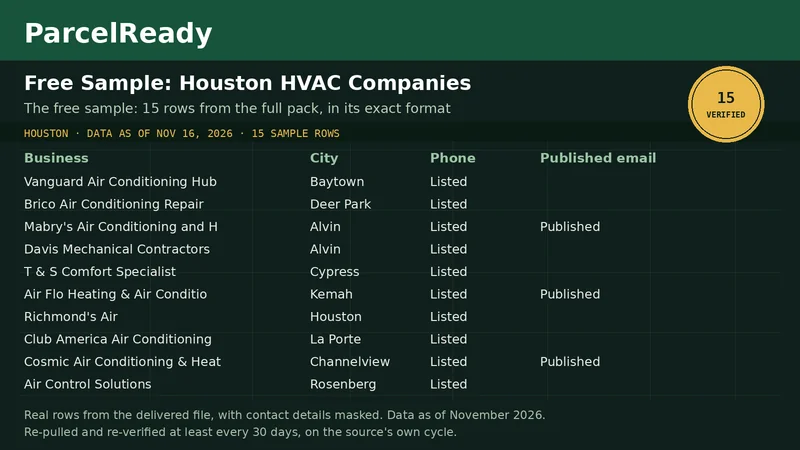
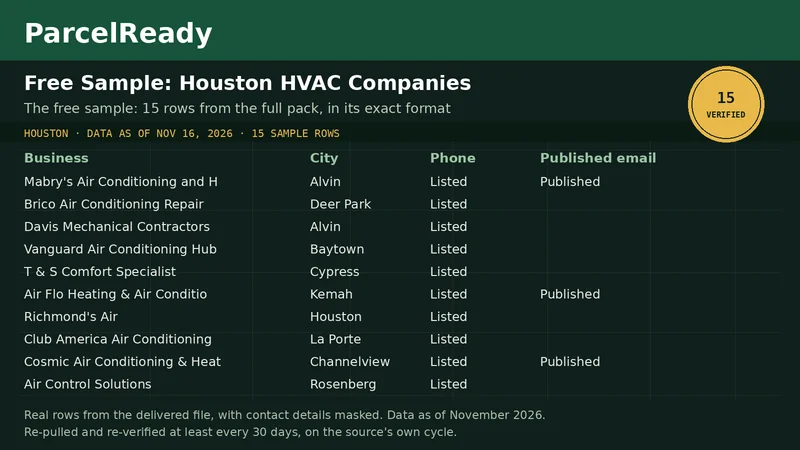
A4 composition rule (Relay): the preview window pass now also enforces that the first row is never blank on email, rating, and review count at once and no two consecutive window rows are all-blank; ordering only, draw rates and membership unchanged, all-blank rows remain in the window at near their 

diff --git a/packs/houston-hvac.html b/packs/houston-hvac.html
@@ -50,7 +50,7 @@
       
       <div class="mini-preview">
         <p class="mini-head"><span>Live preview · first 5 rows</span><span>15 preview rows in all</span></p>
-        <table><thead><tr><th>Business name</th><th>City</th><th>Phone</th><th>Published email</th></tr></thead><tbody><tr><td>Vanguard Air Conditioning Hub</td><td>Baytown</td><td>Listed</td><td></td></tr><tr><td>Brico Air Conditioning Repair Services</td><td>Deer Park</td><td>Listed</td><td></td></tr><tr><td>Mabry&#x27;s Air Conditioning and Heating</td><td>Alvin</td><td>Listed</td><td>Published</td></tr><tr><td>Davis Mechanical Contractors</td><td>Alvin</td><td>Listed</td><td></td></tr><tr><td>T &amp; S Comfort Specialist</td><td>Cypress</td><td>Listed</td><td></td></tr></tbody></table>
+        <table><thead><tr><th>Business name</th><th>City</th><th>Phone</th><th>Published email</th></tr></thead><tbody><tr><td>Mabry&#x27;s Air Conditioning and Heating</td><td>Alvin</td><td>Listed</td><td>Published</td></tr><tr><td>Brico Air Conditioning Repair Services</td><td>Deer Park</td><td>Listed</td><td></td></tr><tr><td>Davis Mechanical Contractors</td><td>Alvin</td><td>Listed</td><td></td></tr><tr><td>Vanguard Air Conditioning Hub</td><td>Baytown</td><td>Listed</td><td></td></tr><tr><td>T &amp; S Comfort Specialist</td><td>Cypress</td><td>Listed</td><td></td></tr></tbody></table>
         <p class="mini-foot">Real rows from this pack, contact details masked on screen. <a href="#sample">See the full preview below</a>; the delivered sample carries every field.</p>
       </div>
     </div>

diff --git a/packs/austin-sa-roofing.html b/packs/austin-sa-roofing.html
@@ -50,7 +50,7 @@
       
       <div class="mini-preview">
         <p class="mini-head"><span>Live preview · first 5 rows</span><span>15 preview rows in all</span></p>
-        <table><thead><tr><th>Business name</th><th>City</th><th>Phone</th><th>Published email</th></tr></thead><tbody><tr><td>Texas Choice Roofing</td><td>Austin</td><td>Listed</td><td></td></tr><tr><td>Altitude Roofing</td><td>Austin</td><td>Listed</td><td>Published</td></tr><tr><td>SkyDeck Roofing and Construction</td><td>Austin</td><td>Listed</td><td></td></tr><tr><td>Ace Roofing Company</td><td>Austin</td><td>Listed</td><td>Published</td></tr><tr><td>Anderson Roofing &amp; Construction</td><td>Leander</td><td>Listed</td><td>Published</td></tr></tbody></table>
+        <table><thead><tr><th>Business name</th><th>City</th><th>Phone</th><th>Published email</th></tr></thead><tbody><tr><td>Altitude Roofing</td><td>Austin</td><td>Listed</td><td>Published</td></tr><tr><td>Texas Choice Roofing</td><td>Austin</td><td>Listed</td><td></td></tr><tr><td>Ace Roofing Company</td><td>Austin</td><td>Listed</td><td>Published</td></tr><tr><td>SkyDeck Roofing and Construction</td><td>Austin</td><td>Listed</td><td></td></tr><tr><td>Anderson Roofing &amp; Construction</td><td>Leander</td><td>Listed</td><td>Published</td></tr></tbody></table>
         <p class="mini-foot">Real rows from this pack, contact details masked on screen. <a href="#sample">See the full preview below</a>; the delivered sample carries every field.</p>
       </div>
     </div>

diff --git a/packs/houston-plumbing.html b/packs/houston-plumbing.html
@@ -50,7 +50,7 @@
       
       <div class="mini-preview">
         <p class="mini-head"><span>Live preview · first 5 rows</span><span>15 preview rows in all</span></p>
-        <table><thead><tr><th>Business name</th><th>City</th><th>Phone</th><th>Published email</th></tr></thead><tbody><tr><td>Jerry Collier Plumbing</td><td>Alvin</td><td>Listed</td><td></td></tr><tr><td>Blackmon Plumbing</td><td>Baytown</td><td>Listed</td><td></td></tr><tr><td>Choice Plumbers, LLC</td><td>Baytown</td><td>Listed</td><td>Published</td></tr><tr><td>JR Plumbing</td><td>Richmond</td><td>Listed</td><td></td></tr><tr><td>Village Plumbing, Air &amp; Electric</td><td>Houston</td><td>Listed</td><td></td></tr></tbody></table>
+        <table><thead><tr><th>Business name</th><th>City</th><th>Phone</th><th>Published email</th></tr></thead><tbody><tr><td>Blackmon Plumbing</td><td>Baytown</td><td>Listed</td><td></td></tr><tr><td>Jerry Collier Plumbing</td><td>Alvin</td><td>Listed</td><td></td></tr><tr><td>Choice Plumbers, LLC</td><td>Baytown</td><td>Listed</td><td>Published</td></tr><tr><td>JR Plumbing</td><td>Richmond</td><td>Listed</td><td></td></tr><tr><td>Village Plumbing, Air &amp; Electric</td><td>Houston</td><td>Listed</td><td></td></tr></tbody></table>
         <p class="mini-foot">Real rows from this pack, contact details masked on screen. <a href="#sample">See the full preview below</a>; the delivered sample carries every field.</p>
       </div>
     </div>

diff --git a/build.py b/build.py
@@ -259,23 +259,55 @@ def _window_fix(draw, full):
     misses in the window, swap the earliest window row lacking the
     field with the nearest later draw row carrying it. Swaps change
     only order, never the draw's own rates. Bounded and checked
-    after every swap; deterministic."""
+    after every swap; deterministic.
+
+    Relay's composition rule (Nov 24, 2026, for the A4 pass) rides
+    the same pass: (1) the first row is never blank on all three of
+    email, rating, and review count at once; (2) no two consecutive
+    rows inside the first five are all-blank on those fields.
+    All-blank rows are NOT barred from the window (they are 38.7%
+    of the HVAC file; a window with none would oversell the other
+    way). Composition swaps prefer partners inside the window so
+    the window's rates are untouched; a swap that reaches outside
+    re-enters the rate check."""
     def rate(rs, f):
         return 100.0 * sum(1 for r in rs if (r.get(f) or "").strip()) / len(rs) if rs else 0.0
+
+    def all_blank(r):
+        return not any((r.get(f) or "").strip()
+                       for f in ("Published email", "Rating", "Review count"))
+
     tol = max(10.0, 100.0 / 5)
-    for _ in range(10):
+    for _ in range(20):
         bad = None
         for f in LEAD_FIELDS:
             if abs(rate(draw[:5], f) - rate(full, f)) > tol:
                 bad = f
                 break
-        if bad is None:
+        if bad is not None:
+            swap_in = next((i for i in range(5, len(draw)) if (draw[i].get(bad) or "").strip()), None)
+            swap_out = next((i for i in range(4, -1, -1) if not (draw[i].get(bad) or "").strip()), None)
+            if swap_in is None or swap_out is None:
+                return draw
+            draw[swap_out], draw[swap_in] = draw[swap_in], draw[swap_out]
+            continue
+        # Composition: find the first violation position.
+        pos = None
+        if draw and all_blank(draw[0]):
+            pos = 0
+        else:
+            for i in range(4):
+                if all_blank(draw[i]) and all_blank(draw[i + 1]):
+                    pos = i + 1
+                    break
+        if pos is None:
             return draw
-        swap_in = next((i for i in range(5, len(draw)) if (draw[i].get(bad) or "").strip()), None)
-        swap_out = next((i for i in range(4, -1, -1) if not (draw[i].get(bad) or "").strip()), None)
-        if swap_in is None or swap_out is None:
+        partner = next((i for i in range(pos + 1, 5) if not all_blank(draw[i])), None)
+        if partner is None:
+            partner = next((i for i in range(5, len(draw)) if not all_blank(draw[i])), None)
+        if partner is None:
             return draw
-        draw[swap_out], draw[swap_in] = draw[swap_in], draw[swap_out]
+        draw[pos], draw[partner] = draw[partner], draw[pos]
     return draw
 
 
